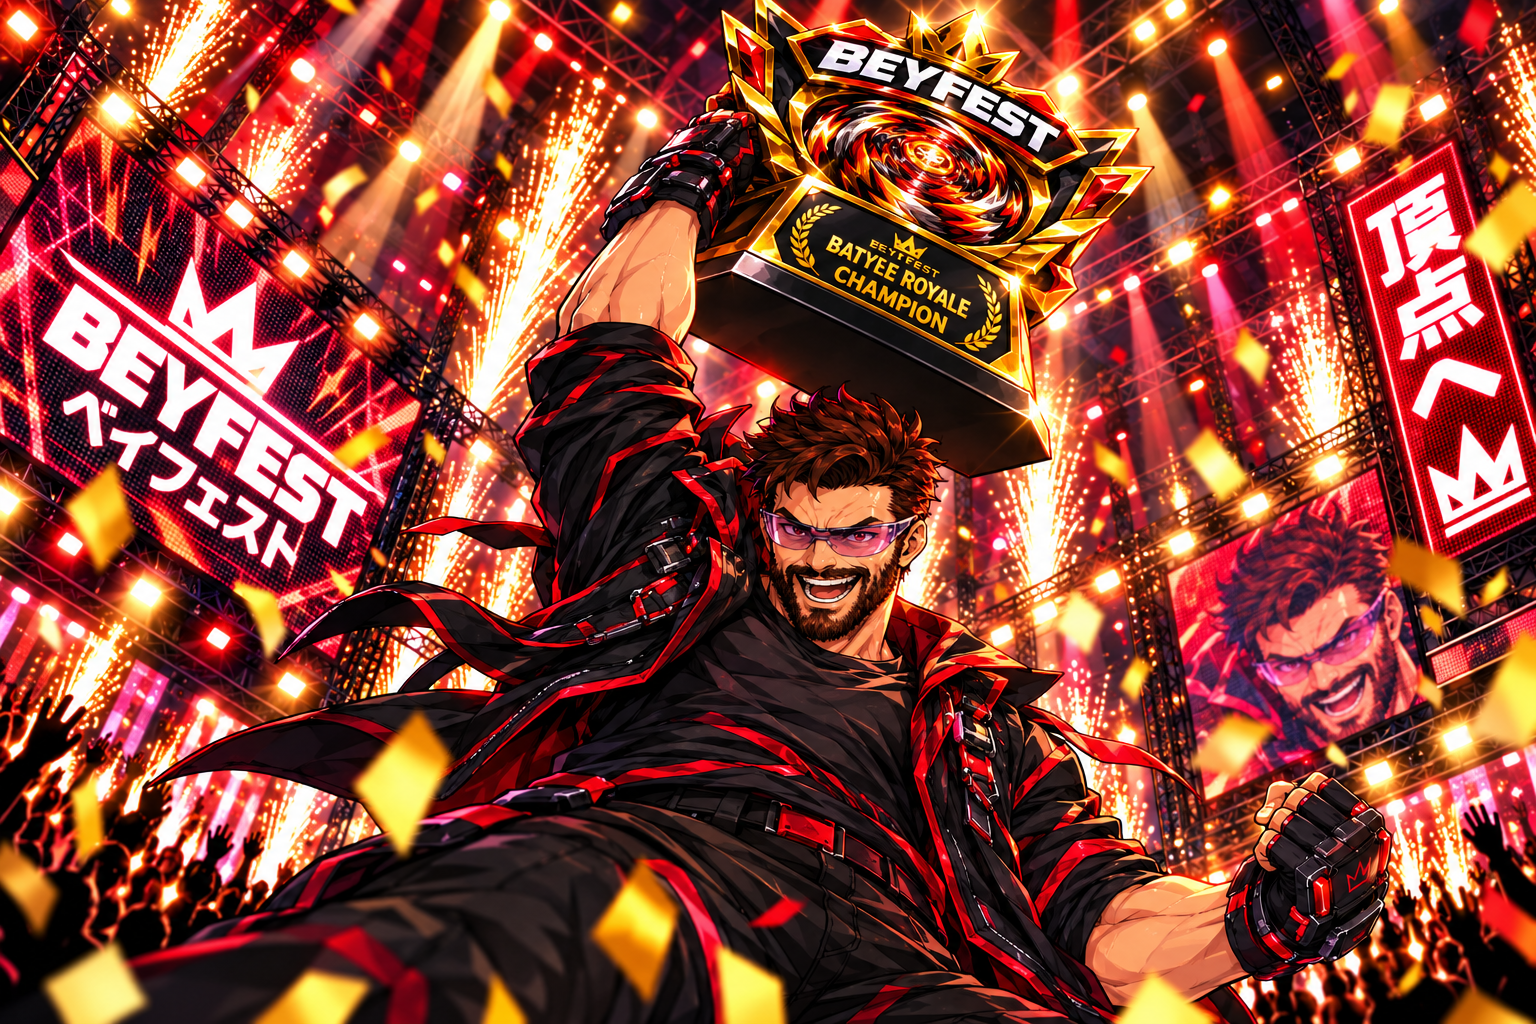
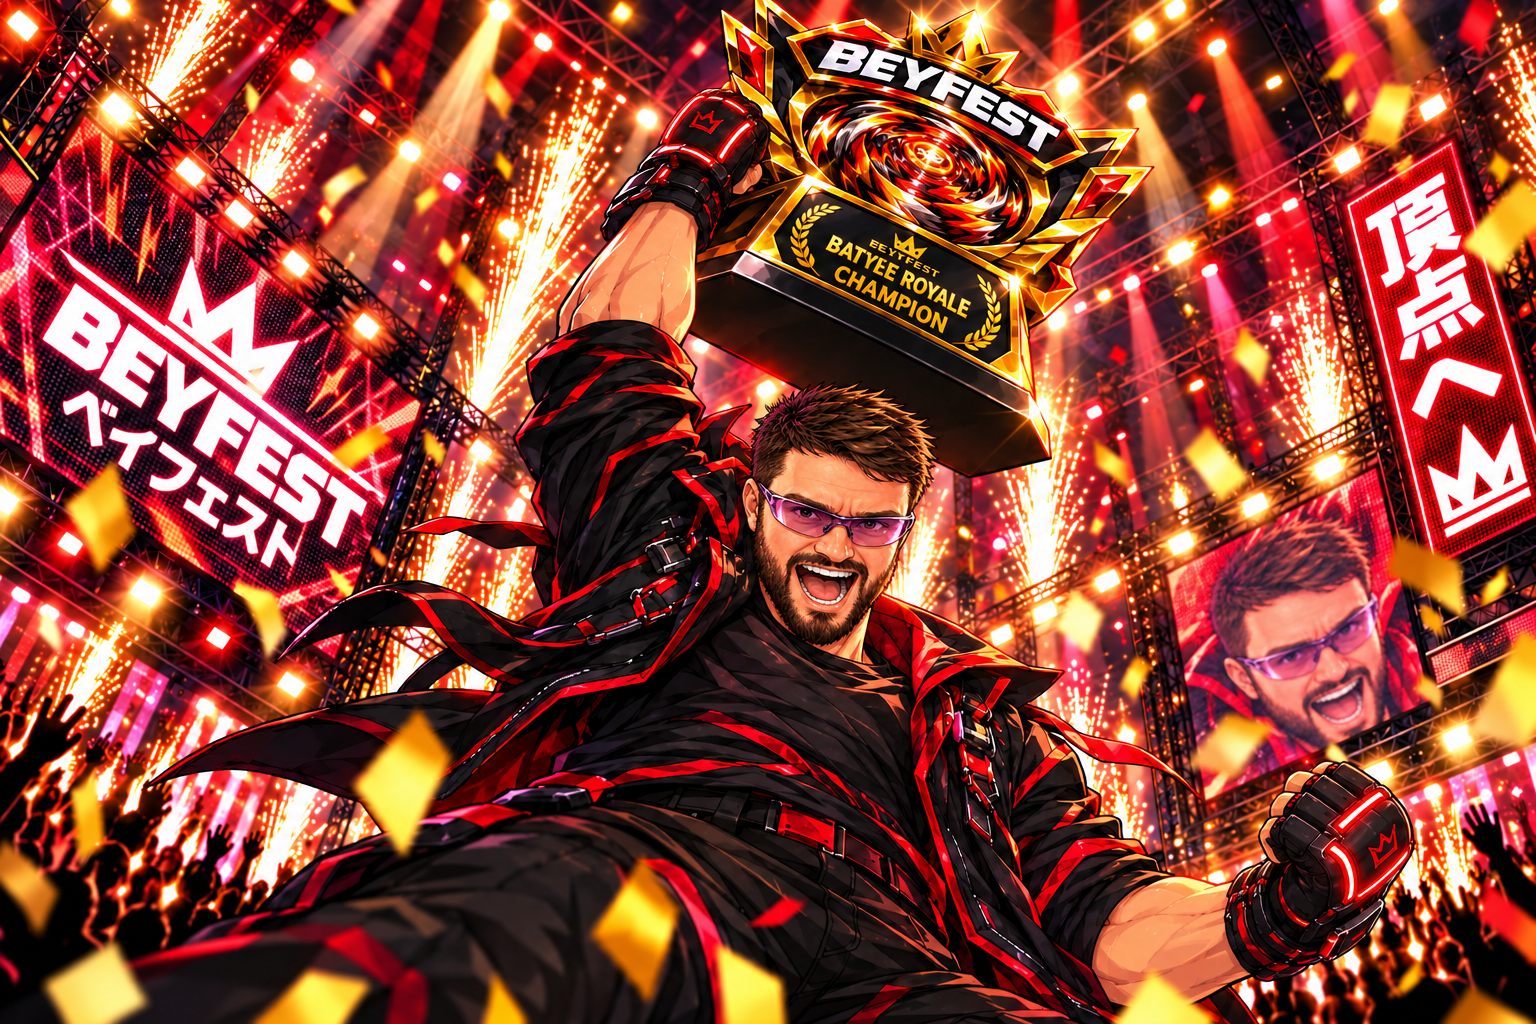
new Pugilist victory and royale victory images

diff --git a/fighter-art/POSE-PLAN.md b/fighter-art/POSE-PLAN.md
@@ -112,7 +112,7 @@ twelve versions of one shot.
 - **Camera:** front, wide-angle.
 - **Mood:** joyful brawler.
 - **Likeness:** from Shane's photos (`likeness/pugilist.md`), the balcony photo as master; the purple wraparound shades stay.
-- **Status:** **likeness pass approved 2026-10-30** as `approved/pugilist.png` (version H): his face, hair and build redrawn closer to Shane, fingerless cyberpunk gloves with a padded boxing-glove shell, the launcher strapped to the front glove. The pose, outfit and shades are unchanged. History in `prompts/pugilist.md`. In the app with a new face point; the victory images are not redone yet. The original stays the style reference (`approved/pugilist-original.png`).
+- **Status:** **likeness pass approved 2026-10-30** as `approved/pugilist.png` (version H): his face, hair and build redrawn closer to Shane, fingerless cyberpunk gloves with a padded boxing-glove shell, the launcher strapped to the front glove. The pose, outfit and shades are unchanged. History in `prompts/pugilist.md`. In the app with a new face point; both victory images redone (2026-10-30). The original stays the style reference (`approved/pugilist-original.png`).
 
 **10. The Stancemancer** (McHale): glasses, blue jumper, purple
 - **Bio:** "A master of posture and precision. His beyblade flows like water — but hits like a freight train. Don't let the glasses fool you." He "dropped into a wide stance" in the Frostbite Kid match.

diff --git a/fighter-art/prompts/pugilist.md b/fighter-art/prompts/pugilist.md
@@ -44,7 +44,10 @@ mirror flag (same layout as before).
 | G | Edit of F with a close-up of B's face attached (`candidates/pugilist-B-face.png`) as the main face reference; keep F's inking, head angle and grin; gloves back to E | Face much closer to B (hairline, short hair, brows, nose, ears, beard line); head still leans in; inking partly kept, a little more painterly than F; transparent. The gloves did NOT go back to E's padded shell: they are still slim, like F |
 | H | Edit of G, gloves only: fingerless with a thick rounded padded boxing-glove shell, laced-look cuffs | Padded shell is now the main shape of both gloves, fingers bare, laced cuff on the raised glove, launcher still on the front glove; face identical to G; transparent |
 
-## Victory images (2026-10-30)
+## Victory images (2026-10-30): approved
+
+Approved first time: `approved/victory-pugilist.png`,
+`approved/royale-victory-pugilist.png`.
 
 Recipe change: the usual Pugilist close-up shows his OLD face, so both sets used a
 close-up of the approved H head (`candidates/pugilist-H-face.png`) as the face and
